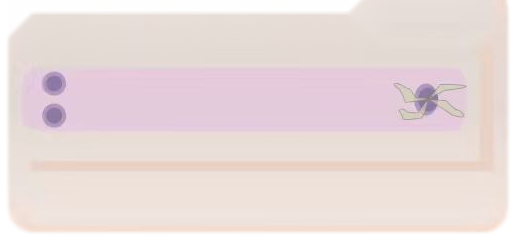
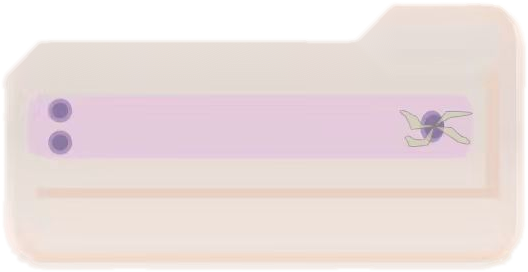
空间卡按真实底板轮廓抠图（去边缘白光晕+透明外围），修正茶几比例拉伸

diff --git a/WebDemo/src/app/components/SpatialScreen.tsx b/WebDemo/src/app/components/SpatialScreen.tsx
@@ -16,10 +16,10 @@ import teatableArt from "../../assets/spaces/teatable.png";
 type SkinKey = "bed" | "desk" | "kitchen" | "teatable";
 
 const SKINS: Record<SkinKey, { src: string; w: number; h: number }> = {
-  bed: { src: bedArt, w: 128, h: 130 },
-  desk: { src: deskArt, w: 137, h: 73 },
+  bed: { src: bedArt, w: 128, h: 131 },
+  desk: { src: deskArt, w: 137, h: 72 },
   kitchen: { src: kitchenArt, w: 128, h: 127 },
-  teatable: { src: teatableArt, w: 137, h: 64 },
+  teatable: { src: teatableArt, w: 137, h: 71 },
 };
 
 // curated, airy "premium" palette the user can recolour spaces with
